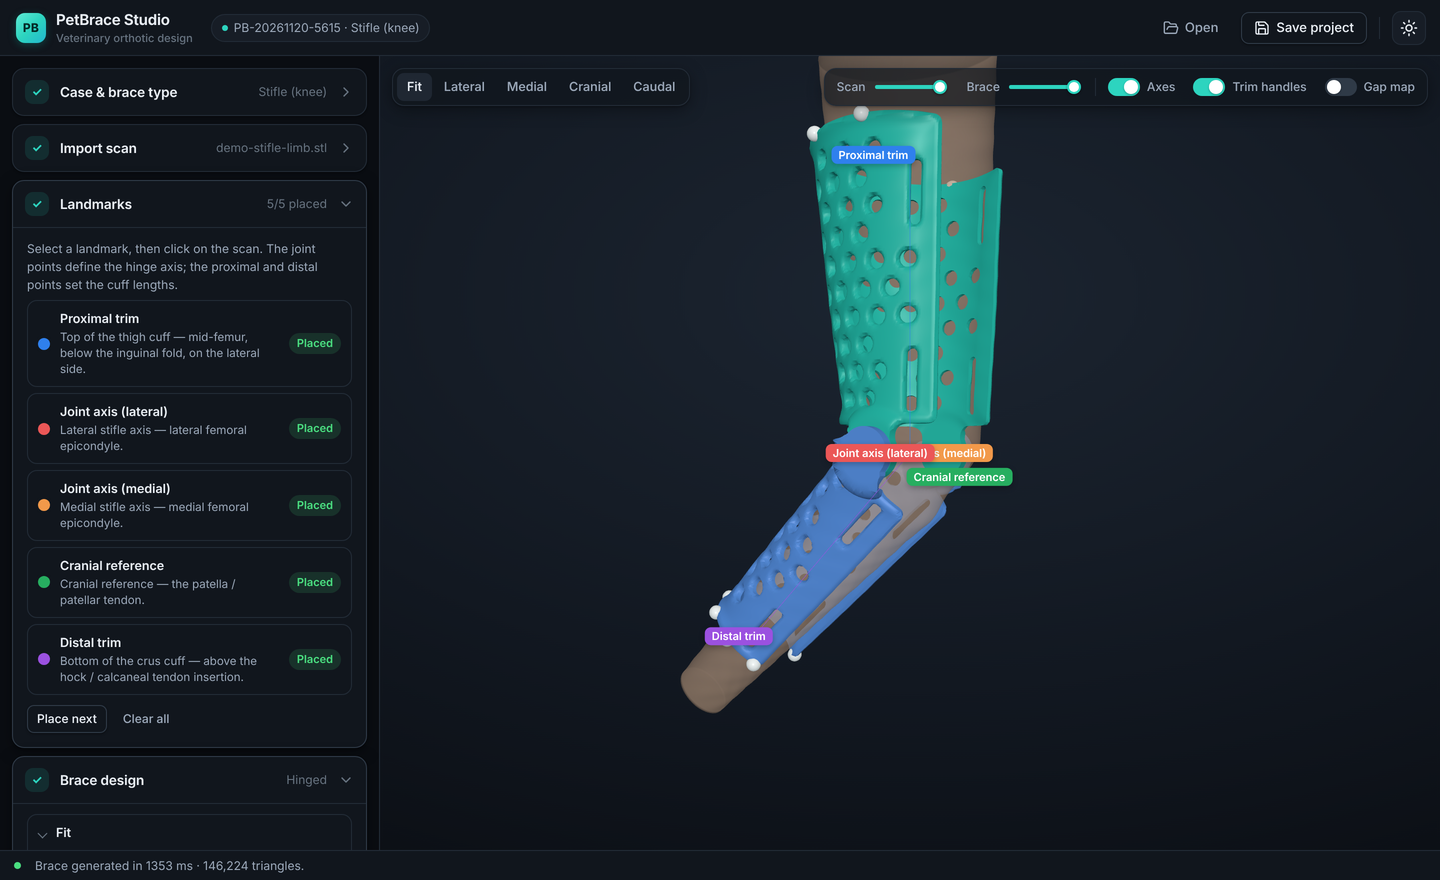
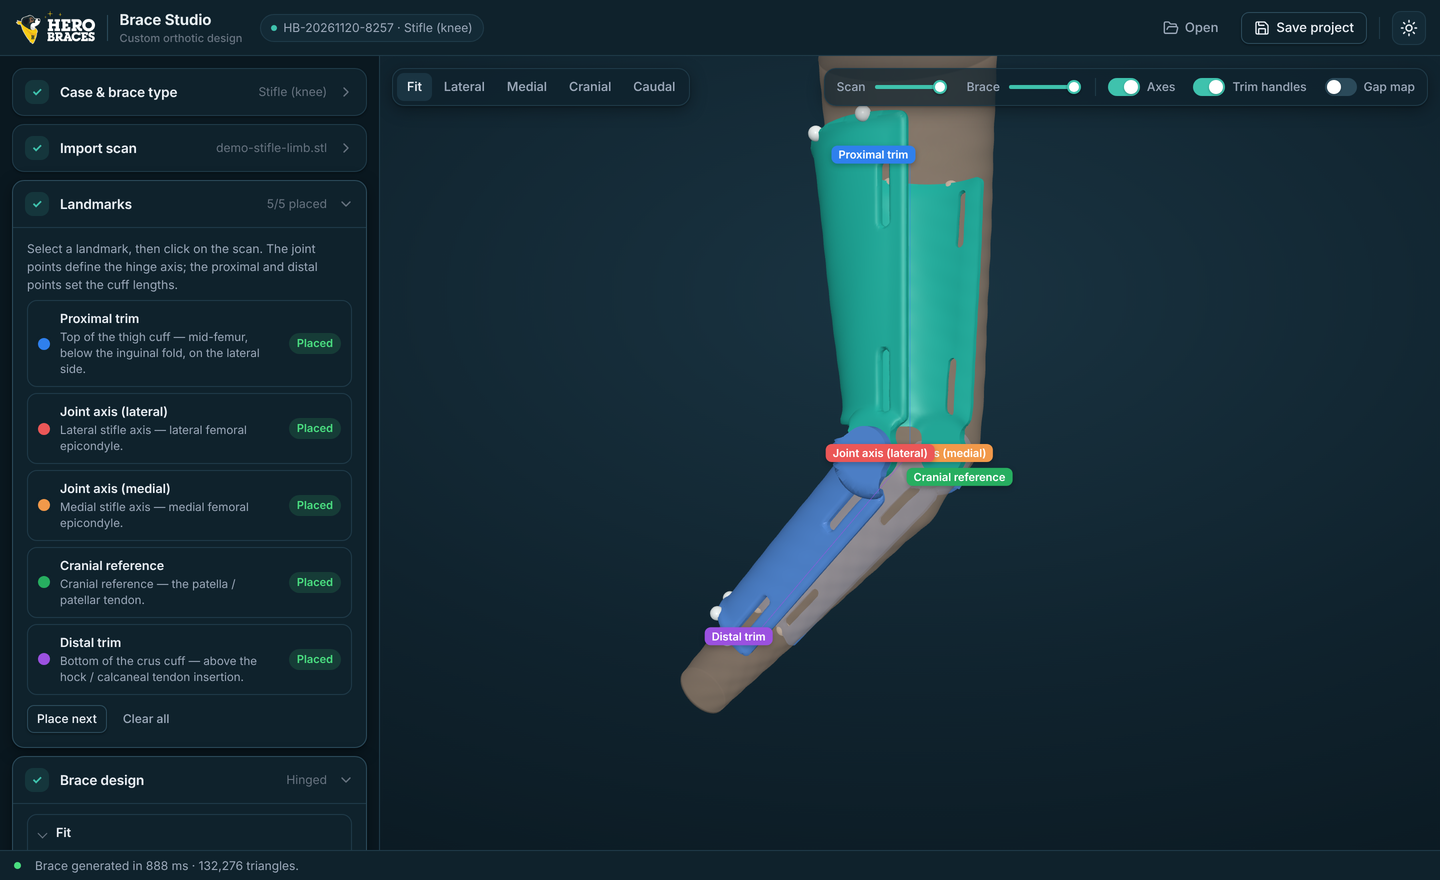
Apply Hero Braces brand assets and Hero-style default designs
- Official logos from goherogo.com: full logo (light), white wordmark
  (dark mode), dog-head mark for favicon and desktop app icon
- Brand palette from the site: navy, Hero yellow primary buttons, teal
  highlights, navy-tinted dark mode surfaces; top bar shows logo + "Brace
  Studio"; work order uses the navy accent and goherogo.com
- Default designs modelled on the Hero product photos: wide cranial
  opening with straps, no vent holes, hinged stifle and carpal, rigid
  one-piece hock
- Hinge pads are always preserved, even with very wide openings
- Optional plantar/palmar extension down the caudal side of the paw
  (a full under-paw sole is not modelled yet)
- Tests for the new defaults, extension and hinge-pad preservation

Claude-Session: https://claude.ai/code/session_01MyKCkmse4vdywD6YWSMo2N

diff --git a/src/brand/brand.ts b/src/brand/brand.ts
@@ -1,49 +1,77 @@
 /**
- * Brand configuration — the one place to change name, colours and logo.
+ * Brand configuration — the one place to change name, colours and logos.
  *
- * Logo: drop a file named `logo.svg`, `logo.png` or `logo.webp` into this
- * folder (src/brand/) and rebuild. It is used in the top bar, browser tab,
- * desktop window and work order. Without one, a monogram is drawn.
+ * Logo files in this folder (src/brand/):
+ *   logo.png       full logo for light backgrounds (top bar, work order)
+ *   logo-dark.png  full logo for dark backgrounds (dark mode top bar)
+ *   mark.png       square mark (browser tab icon); build/icon.png is the desktop app icon
+ * SVG or WebP files with the same names work too. Delete them to fall back to the monogram.
+ *
+ * Colours are taken from goherogo.com: deep navy, Hero yellow, Hero teal.
  */
 export const BRAND = {
   company: 'Hero Braces',
   product: 'Hero Braces Studio',
+  /** Shown next to the logo in the top bar. */
+  appLabel: 'Brace Studio',
   tagline: 'Custom orthotic design',
-  website: 'herobraces.com',
+  website: 'goherogo.com',
   /** Two-letter monogram used when no logo file is present. */
   monogram: 'HB',
   /** Prefix for new case IDs, e.g. HB-20261120-1234. */
   casePrefix: 'HB',
-  /** Accent colours per theme (buttons, highlights, selected states). */
+  palette: {
+    navy: '#123b4e',
+    yellow: '#eeea13',
+    yellowText: '#123840',
+    teal: '#108474',
+  },
+  /** Per-theme UI colours. accent = highlights (switches, sliders, focus); primary = main buttons. */
   colors: {
-    light: { accent: '#0d9488', accentHover: '#0f766e', accentText: '#ffffff' },
-    dark: { accent: '#2dd4bf', accentHover: '#5eead4', accentText: '#032b26' },
+    light: {
+      accent: '#108474', accentHover: '#0c6b5e', accentText: '#ffffff',
+      primary: '#eeea13', primaryText: '#123840',
+      brandText: '#123b4e',
+    },
+    dark: {
+      accent: '#3fc2ad', accentHover: '#6ad6c4', accentText: '#062a26',
+      primary: '#eeea13', primaryText: '#123840',
+      brandText: '#e8f0f3',
+      // Navy-tinted dark surfaces, matching the site's navy sections.
+      bg: '#0a1820', surface: '#0f222c', surface2: '#132a36', surface3: '#1a3442',
+      border: '#1f3a48', borderStrong: '#2b4a5a', glass: 'rgba(15, 34, 44, 0.74)',
+      vpBg: 'radial-gradient(120% 90% at 50% 30%, #1a3442 0%, #10232e 55%, #0a1820 100%)',
+    },
   },
 };
 
-const logos = import.meta.glob('./logo.{svg,png,webp,jpg}', { eager: true, query: '?url', import: 'default' }) as Record<string, string>;
+const files = import.meta.glob('./{logo,logo-dark,mark}.{svg,png,webp}', { eager: true, query: '?url', import: 'default' }) as Record<string, string>;
+const find = (name: string) => Object.entries(files).find(([k]) => k.replace(/^\.\//, '').replace(/\.\w+$/, '') === name)?.[1] ?? null;
 
-/** URL of the brand logo file, or null to use the monogram. */
-export const BRAND_LOGO: string | null = Object.values(logos)[0] ?? null;
+/** Logo URLs, or null to use the monogram. */
+export const BRAND_LOGO: string | null = find('logo');
+export const BRAND_LOGO_DARK: string | null = find('logo-dark') ?? BRAND_LOGO;
+export const BRAND_MARK: string | null = find('mark');
 
 /** Apply brand colours as CSS variables (other accent shades are derived in CSS). */
 export function applyBrand() {
   const { light, dark } = BRAND.colors;
-  const vars = (c: typeof light) => `--accent:${c.accent};--accent-hover:${c.accentHover};--accent-text:${c.accentText};`;
+  const common = (c: typeof light) =>
+    `--accent:${c.accent};--accent-hover:${c.accentHover};--accent-text:${c.accentText};--primary-bg:${c.primary};--primary-text:${c.primaryText};--brand-text:${c.brandText};`;
+  const surfaces = `--bg:${dark.bg};--surface:${dark.surface};--surface-2:${dark.surface2};--surface-3:${dark.surface3};--border:${dark.border};--border-strong:${dark.borderStrong};--glass:${dark.glass};--vp-bg:${dark.vpBg};`;
   const style = document.createElement('style');
   style.id = 'brand-colors';
-  style.textContent = `:root,:root[data-theme='light']{${vars(light)}}:root[data-theme='dark']{${vars(dark)}}`;
+  style.textContent = `:root,:root[data-theme='light']{${common(light)}}:root[data-theme='dark']{${common(dark)}${surfaces}}`;
   document.head.appendChild(style);
 
   document.title = BRAND.product;
-  const href = BRAND_LOGO ?? monogramIcon(light.accent);
   let link = document.querySelector<HTMLLinkElement>('link[rel=icon]');
   if (!link) {
     link = document.createElement('link');
     link.rel = 'icon';
     document.head.appendChild(link);
   }
-  link.href = href;
+  link.href = BRAND_MARK ?? monogramIcon(BRAND.palette.navy);
 }
 
 function monogramIcon(color: string): string {

diff --git a/src/core/params.ts b/src/core/params.ts
@@ -70,6 +70,11 @@ export interface BraceParams {
   strapSlotWidth: number;
   strapMargin: number;
 
+  // Plantar / palmar extension (hock / carpal): the shell continues down the caudal side of the paw
+  footPlate: boolean;
+  footPlateLength: number;
+  footPlateWidth: number;
+
   // Ventilation
   perforate: boolean;
   perfDiameter: number;
@@ -171,7 +176,10 @@ const BASE: Omit<BraceParams, 'braceType'> = {
   strapWidth: 25,
   strapSlotWidth: 4,
   strapMargin: 7,
-  perforate: true,
+  footPlate: false,
+  footPlateLength: 30,
+  footPlateWidth: 150,
+  perforate: false,
   perfDiameter: 7,
   perfSpacing: 13,
   perfMargin: 6,
@@ -199,14 +207,32 @@ export function trimShapeAt(shape: number[] | undefined, thetaUser: number): num
   return 0.5 * (2 * p1 + (-p0 + p2) * t + (2 * p0 - 5 * p1 + 4 * p2 - p3) * t * t + (-p0 + 3 * p1 - 3 * p2 + p3) * t * t * t);
 }
 
+/**
+ * Default designs per brace type, modelled on the Hero Braces product line:
+ * a rigid shell that wraps the caudal side of the limb, wide cranial opening
+ * closed with straps, no vent holes; hinged stifle and carpal; rigid
+ * one-piece hock. (Hero hock/carpal braces also have a sole under the paw;
+ * see footPlate for the current plantar/palmar extension.)
+ */
 function presetParams(braceType: BraceType): BraceParams {
   switch (braceType) {
     case 'stifle':
-      return { ...BASE, braceType, proxTrimTilt: 8, romFlexion: 80, romExtension: 150, openingCenter: 0, openingWidthProx: 80, openingWidthDist: 70, reliefs: [] };
+      return {
+        ...BASE, braceType, linerOffset: 2.5, wallThickness: 3.5, proxTrimTilt: 8, hinged: true, romFlexion: 80, romExtension: 150,
+        openingCenter: 0, openingWidthProx: 120, openingWidthDist: 110, strapsPerCuff: 2, strapWidth: 25, reliefs: [],
+      };
     case 'hock':
-      return { ...BASE, braceType, wallThickness: 3, jointGap: 10, hingeRadius: 9, romFlexion: 90, romExtension: 165, hingeHole: 4, openingCenter: 0, openingWidthProx: 70, openingWidthDist: 80, perfDiameter: 6, perfSpacing: 11, reliefs: [] };
+      return {
+        ...BASE, braceType, linerOffset: 2.5, wallThickness: 3, hinged: false, jointGap: 10, hingeRadius: 9, hingeHole: 4, romFlexion: 90, romExtension: 165,
+        openingCenter: 0, openingWidthProx: 160, openingWidthDist: 140, strapsPerCuff: 2, strapWidth: 25,
+        footPlate: false, footPlateLength: 30, footPlateWidth: 150, reliefs: [],
+      };
     case 'carpal':
-      return { ...BASE, braceType, wallThickness: 3, hinged: false, romFlexion: 110, romExtension: 190, jointGap: 8, hingeRadius: 8, hingeHole: 4, openingCenter: 0, openingWidthProx: 70, openingWidthDist: 90, strapWidth: 20, perfDiameter: 6, perfSpacing: 11, reliefs: [] };
+      return {
+        ...BASE, braceType, linerOffset: 2.5, wallThickness: 3, hinged: true, jointGap: 8, hingeRadius: 8, hingeHole: 4, romFlexion: 110, romExtension: 190,
+        openingCenter: 0, openingWidthProx: 150, openingWidthDist: 140, strapsPerCuff: 2, strapWidth: 22,
+        footPlate: false, footPlateLength: 25, footPlateWidth: 150, perfDiameter: 6, perfSpacing: 11, reliefs: [],
+      };
   }
 }
 
@@ -261,6 +287,9 @@ export const PARAM_SPECS: ParamSpec[] = [
   { key: 'strapSlotWidth', group: 'Straps', label: 'Slot width', kind: 'number', min: 2, max: 10, step: 0.5, unit: 'mm' },
   { key: 'strapMargin', group: 'Straps', label: 'Slot distance from edge', kind: 'number', min: 3, max: 25, step: 0.5, unit: 'mm' },
 
+  { key: 'footPlate', group: 'Paw extension', label: 'Plantar / palmar extension', kind: 'bool', help: 'Extends the distal cuff down the caudal side of the paw toward the pads. Not yet a full sole under the paw.' },
+  { key: 'footPlateLength', group: 'Paw extension', label: 'Length past distal trim', kind: 'number', min: 5, max: 80, step: 1, unit: 'mm', showIf: (p) => p.footPlate, help: 'Place the distal landmark above the pads; the plate extends this far toward the toes.' },
+  { key: 'footPlateWidth', group: 'Paw extension', label: 'Width around the paw', kind: 'number', min: 60, max: 240, step: 5, unit: '°', showIf: (p) => p.footPlate },
   { key: 'perforate', group: 'Ventilation', label: 'Ventilation holes', kind: 'bool' },
   { key: 'perfDiameter', group: 'Ventilation', label: 'Hole diameter', kind: 'number', min: 3, max: 20, step: 0.5, unit: 'mm', showIf: (p) => p.perforate },
   { key: 'perfSpacing', group: 'Ventilation', label: 'Hole spacing', kind: 'number', min: 6, max: 40, step: 0.5, unit: 'mm', showIf: (p) => p.perforate },

diff --git a/src/ui/style.css b/src/ui/style.css
@@ -74,7 +74,12 @@ button, input, select, textarea { font: inherit; color: inherit; }
 .topbar { grid-column: 1 / -1; display: flex; align-items: center; gap: 10px; padding: 0 14px 0 16px; background: var(--surface); border-bottom: 1px solid var(--border); position: relative; z-index: 2; }
 .brand { display: flex; align-items: center; gap: 10px; font-weight: 650; font-size: 15px; letter-spacing: -0.2px; }
 .brand .logo { width: 30px; height: 30px; border-radius: 9px; background: var(--accent-grad); display: grid; place-items: center; color: var(--accent-text); font-size: 12px; font-weight: 750; letter-spacing: 0.3px; box-shadow: 0 2px 8px color-mix(in srgb, var(--accent) 35%, transparent); }
-.brand .logo-img { height: 32px; width: auto; max-width: 140px; object-fit: contain; display: block; }
+.brand .logo-img { height: 34px; width: auto; max-width: 150px; object-fit: contain; display: block; }
+.brand .logo-dark { display: none; }
+:root[data-theme='dark'] .brand .logo-light { display: none; }
+:root[data-theme='dark'] .brand .logo-dark { display: block; }
+.brand-sep { width: 1px; height: 26px; background: var(--border-strong); margin: 0 2px; }
+.brand-label { color: var(--brand-text, var(--text)); font-weight: 680; letter-spacing: -0.1px; }
 .brand small { display: block; font-size: 11px; font-weight: 500; color: var(--text-3); letter-spacing: 0; margin-top: -2px; }
 .case-chip { display: inline-flex; align-items: center; gap: 6px; margin-left: 8px; padding: 4px 10px; border-radius: 999px; background: var(--surface-2); border: 1px solid var(--border); color: var(--text-2); font-size: 12px; max-width: 420px; white-space: nowrap; overflow: hidden; text-overflow: ellipsis; }
 .case-chip::before { content: ''; width: 6px; height: 6px; border-radius: 50%; background: var(--accent); flex: none; }
@@ -86,8 +91,9 @@ button, input, select, textarea { font: inherit; color: inherit; }
 .btn:hover { background: var(--surface-2); border-color: var(--text-3); }
 .btn:active { transform: translateY(0.5px); }
 .btn:focus-visible, .seg-btn:focus-visible, .icon-btn:focus-visible { outline: none; box-shadow: 0 0 0 3px var(--ring); }
-.btn.primary { background: var(--accent-grad); border-color: transparent; color: var(--accent-text); font-weight: 600; box-shadow: 0 1px 2px color-mix(in srgb, var(--accent) 30%, transparent), inset 0 1px 0 rgba(255, 255, 255, 0.15); }
-.btn.primary:hover { filter: brightness(1.06); }
+.btn.primary { background: var(--primary-bg, var(--accent-grad)); border-color: transparent; color: var(--primary-text, var(--accent-text)); font-weight: 600; box-shadow: 0 1px 2px color-mix(in srgb, var(--accent) 30%, transparent), inset 0 1px 0 rgba(255, 255, 255, 0.15); }
+.btn.primary:hover { filter: brightness(0.96); }
+.btn.primary .icon { color: inherit; }
 .btn.ghost { background: transparent; border-color: transparent; box-shadow: none; color: var(--text-2); }
 .btn.ghost:hover { background: var(--surface-2); color: var(--text); }
 .btn.danger:hover { color: var(--danger); }

diff --git a/tests/features.test.ts b/tests/features.test.ts
@@ -36,7 +36,7 @@ describe('range-of-motion stops', () => {
   for (const type of ['stifle', 'hock'] as BraceType[]) {
     it(`${type}: reports the scanned joint angle and cuts pin hole + arc slot`, () => {
       const { demo, scan } = load(type);
-      const base = { ...defaultParams(type), perforate: false, resolution: 1.25 };
+      const base = { ...defaultParams(type), hinged: true, perforate: false, resolution: 1.25 };
       const a = generateBrace(scan, demo.landmarks, base);
       expect(a.jointAngle).toBeGreaterThan(100);
       expect(a.jointAngle).toBeLessThan(170);
@@ -78,5 +78,42 @@ describe('gap map and edge rounding', () => {
     const round = generateBrace(scan, demo.landmarks, { ...p, edgeRounding: 3 });
     expect(round.cuffs[0].check.volume).toBeLessThan(sharp.cuffs[0].check.volume);
     expect(round.cuffs[0].check.boundaryEdges).toBe(0);
+  });
+});
+
+describe('Hero-style defaults', () => {
+  it('hock is a rigid one-piece shell with no vent holes; carpal is hinged', () => {
+    const p = defaultParams('hock');
+    expect(p.hinged).toBe(false);
+    expect(p.perforate).toBe(false);
+    expect(defaultParams('carpal').hinged).toBe(true);
+  });
+
+  for (const type of ['hock', 'carpal'] as BraceType[]) {
+    it(`${type}: the plantar/palmar extension lengthens the distal cuff and stays closed`, () => {
+      const { demo, scan } = load(type);
+      const p = { ...defaultParams(type), resolution: 1.5 };
+      const without = generateBrace(scan, demo.landmarks, { ...p, footPlate: false });
+      const withPlate = generateBrace(scan, demo.landmarks, { ...p, footPlate: true });
+      const d = withPlate.cuffs[1];
+      expect(d.check.boundaryEdges).toBe(0);
+      expect(d.check.nonManifoldEdges).toBe(0);
+      expect(d.check.volume).toBeGreaterThan(without.cuffs[1].check.volume * 1.1);
+    });
+  }
+
+  it('a very wide opening never removes the hinge pads', () => {
+    const { demo, scan } = load('carpal');
+    const r = generateBrace(scan, demo.landmarks, { ...defaultParams('carpal'), openingWidthProx: 220, openingWidthDist: 220, resolution: 1.25 });
+    const lat = demo.landmarks.jointLateral!;
+    for (const c of r.cuffs) {
+      expect(c.check.boundaryEdges).toBe(0);
+      const pos = c.geometry.getAttribute('position');
+      let near = 0;
+      for (let i = 0; i < pos.count; i++) {
+        if (Math.hypot(pos.getX(i) - lat[0], pos.getY(i) - lat[1]) < 6) near++;
+      }
+      expect(near).toBeGreaterThan(20);
+    }
   });
 });

diff --git a/src/ui/report.ts b/src/ui/report.ts
@@ -36,11 +36,11 @@ table{border-collapse:collapse;width:100%}th,td{text-align:left;padding:3px 6px;
 img{width:100%;border:1px solid #ddd;border-radius:6px;background:#eef2f5}
 .sign{display:grid;grid-template-columns:1fr 1fr;gap:30px;margin-top:30px}.sign div{border-top:1px solid #444;padding-top:4px;color:#555}
 .disc{margin-top:18px;font-size:11px;color:#555}
-.bhead{display:flex;align-items:center;gap:10px;margin-bottom:14px;padding-bottom:10px;border-bottom:2px solid ${BRAND.colors.light.accent}}.bhead img{height:40px;width:auto;max-width:220px;border:0;border-radius:0;background:none}.bhead span{color:#555;font-size:11px}.bhead .mono{display:inline-grid;place-items:center;width:36px;height:36px;border-radius:8px;color:#fff;font-weight:700;font-size:14px}
+.bhead{display:flex;align-items:center;gap:10px;margin-bottom:14px;padding-bottom:10px;border-bottom:2px solid ${BRAND.palette.navy}}.bhead img{height:40px;width:auto;max-width:220px;border:0;border-radius:0;background:none}.bhead span{color:#555;font-size:11px}.bhead .mono{display:inline-grid;place-items:center;width:36px;height:36px;border-radius:8px;color:#fff;font-weight:700;font-size:14px}
 @media print{body{margin:12mm}button{display:none}}
 </style></head><body>
 <button onclick="print()" style="float:right">Print</button>
-<div class="bhead">${BRAND_LOGO ? `<img src="${new URL(BRAND_LOGO, location.href).href}" alt="${esc(BRAND.company)}">` : `<span class="mono" style="background:${BRAND.colors.light.accent}">${esc(BRAND.monogram)}</span>`}<div><b>${esc(BRAND.company)}</b><br><span>${esc(BRAND.website)}</span></div></div>
+<div class="bhead">${BRAND_LOGO ? `<img src="${new URL(BRAND_LOGO, location.href).href}" alt="${esc(BRAND.company)}">` : `<span class="mono" style="background:${BRAND.palette.navy}">${esc(BRAND.monogram)}</span>`}<div><b>${esc(BRAND.company)}</b><br><span>${esc(BRAND.website)}</span></div></div>
 <h1>${esc(bt.label)} orthosis — work order</h1>
 <div class="sub">Case ${esc(c.caseId)} · ${esc(c.side)} ${p.braceType === 'carpal' ? 'thoracic' : 'pelvic'} limb · generated ${new Date().toLocaleString()}</div>
 <div class="cols">

diff --git a/src/ui/app.ts b/src/ui/app.ts
@@ -14,7 +14,7 @@ import { SCAN_ACCEPT, download, emptyCase, parseProject, pickFile, readScanFile,
 import { openWorkOrder } from './report';
 import type { CuffPayload, FromWorker, SerializedFrames, ToWorker } from './protocol';
 import { icon } from './icons';
-import { BRAND, BRAND_LOGO } from '../brand/brand';
+import { BRAND, BRAND_LOGO, BRAND_LOGO_DARK } from '../brand/brand';
 import { applyTheme, type Theme } from './theme';
 
 /** Keep the filled part of range sliders in sync with their value. */
@@ -101,9 +101,13 @@ export class App {
     this.caseTitle = h('span', { class: 'case-chip' });
     this.themeBtn = h('button', { class: 'icon-btn', onclick: () => this.toggleTheme() });
     const top = h('header', { class: 'topbar' },
-      h('div', { class: 'brand' },
-        BRAND_LOGO ? h('img', { class: 'logo-img', src: BRAND_LOGO, alt: BRAND.company }) : h('div', { class: 'logo' }, BRAND.monogram),
-        h('div', {}, BRAND.product, h('small', {}, BRAND.tagline))),
+      BRAND_LOGO
+        ? h('div', { class: 'brand' },
+          h('img', { class: 'logo-img logo-light', src: BRAND_LOGO, alt: BRAND.company }),
+          h('img', { class: 'logo-img logo-dark', src: BRAND_LOGO_DARK ?? BRAND_LOGO, alt: BRAND.company }),
+          h('div', { class: 'brand-sep' }),
+          h('div', { class: 'brand-label' }, BRAND.appLabel, h('small', {}, BRAND.tagline)))
+        : h('div', { class: 'brand' }, h('div', { class: 'logo' }, BRAND.monogram), h('div', {}, BRAND.product, h('small', {}, BRAND.tagline))),
       this.caseTitle,
       h('div', { class: 'spacer' }),
       h('button', { class: 'btn ghost', onclick: () => this.openProject() }, icon('FolderOpen'), h('span', { class: 'btn-label' }, 'Open')),

diff --git a/src/core/brace.ts b/src/core/brace.ts
@@ -199,7 +199,18 @@ function trimEnd(frame: CuffFrame, p: BraceParams, thetaUser: number): number {
   const off = isProx ? p.proxTrimOffset : p.distTrimOffset;
   const tilt = isProx ? p.proxTrimTilt : p.distTrimTilt;
   const shape = trimShapeAt(isProx ? p.proxTrimShape : p.distTrimShape, thetaUser);
-  return frame.length + off + tilt * Math.cos(thetaUser - Math.PI / 2) + shape;
+  return frame.length + off + tilt * Math.cos(thetaUser - Math.PI / 2) + shape + (isProx ? 0 : footPlateExtension(p, thetaUser));
+}
+
+/**
+ * Plantar / palmar extension: the distal cuff's caudal side continues past the
+ * distal trim toward the paw pads, with a smooth cosine taper toward the sides.
+ */
+export function footPlateExtension(p: BraceParams, thetaUser: number): number {
+  if (!p.footPlate || p.footPlateLength <= 0) return 0;
+  const half = (p.footPlateWidth * Math.PI) / 360;
+  const d = Math.abs(angDiff(thetaUser, Math.PI));
+  return d < half ? p.footPlateLength * 0.5 * (1 + Math.cos((Math.PI * d) / half)) : 0;
 }
 
 function setupCuff(scan: ScanModel, frames: LimbFrames, frame: CuffFrame, other: CuffFrame, p: BraceParams): Cuff {
@@ -431,6 +442,8 @@ function buildFields(c: Cuff, frames: LimbFrames, p: BraceParams, rom: Rom | nul
 
       const edgeDist = (Math.abs(angDiff(th, openC)) - openHalf) * r; // < 0 inside the opening
       if (openHalf > 0) fv = smax(fv, -edgeDist, 4);
+      // A wide donning opening must never cut into the hinge pads.
+      if (p.hinged) fv = Math.min(fv, c.rho[j] - R);
       c.fTrim[j] = fv;
 
       for (const hs of strapH) {

diff --git a/README.md b/README.md
@@ -11,7 +11,24 @@ The sun/moon button in the top bar switches between light and dark mode. The cho
 
 ## Branding
 
-All brand settings live in [`src/brand/brand.ts`](src/brand/brand.ts): company and product name, tagline, website, case-ID prefix and the accent colour for each theme. Every other accent shade is derived from those. To use the official logo, drop `logo.svg` (preferred), `logo.png` or `logo.webp` into `src/brand/` and rebuild. It then appears in the top bar, browser tab and printed work order; without it, an "HB" monogram is drawn.
+Built for **Hero Braces** ([goherogo.com](https://goherogo.com)). All brand settings live in [`src/brand/brand.ts`](src/brand/brand.ts): name, tagline, website, the `HB-` case-ID prefix, and colours taken from the website (navy `#123b4e`, Hero yellow `#eeea13` for primary buttons, teal `#108474` for highlights, navy-tinted dark mode).
+
+Logo files in `src/brand/`:
+- `logo.png`: light theme and work order
+- `logo-dark.png`: white wordmark for dark mode
+- `mark.png`: browser tab icon
+
+The desktop app icon is `build/icon.png`. Replace any of these with official SVG/PNG exports and rebuild.
+
+### Default designs (modelled on the Hero product line)
+
+| Brace | Construction | Opening | Joint |
+|---|---|---|---|
+| Stifle | Thigh cuff + crus cuff | Wide cranial opening, straps across the front | Hinged, pads on both sides |
+| Hock | One-piece rigid shell down the caudal side | Wide cranial opening | Rigid (3-point support) |
+| Carpal | Forearm cuff + paw cuff | Wide cranial opening | Hinged |
+
+There are no vent holes by default (they can be switched on). A *plantar / palmar extension* can continue the shell down the back of the paw. A true sole under the paw (as on Hero hock and carpal braces) is not modelled yet.
 
 ## Quick start
 
